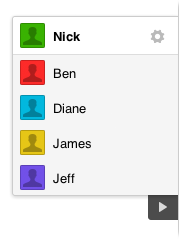
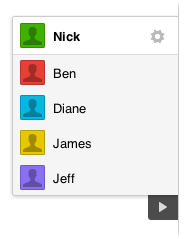
renamed transparent pixel png and added retina sprite css

Changed region(s): [[0.1064, 0.6736, 0.2394, 0.8201]]

diff --git a/user-list.css b/user-list.css
@@ -10,6 +10,13 @@
   background-repeat: no-repeat;
 }
 
+@media print, (-webkit-min-device-pixel-ratio: 1.25), (min-resolution: 120dpi) {
+  .gi-userlist .gi-icon {
+    background-image: url('images/sprite@2x.png');
+    background-size: 208px 52px;
+  }
+}
+
 /* 
    Userlist Element
    ========================================================================== */
@@ -247,7 +254,7 @@
     width: 30px;
     height: 25px;
     bottom: -24px;
-    background: url('images/000000-0.7.png');
+    background: url('images/transparent.png');
     background: rgba(0,0,0,.7);
     cursor: pointer;
   }
